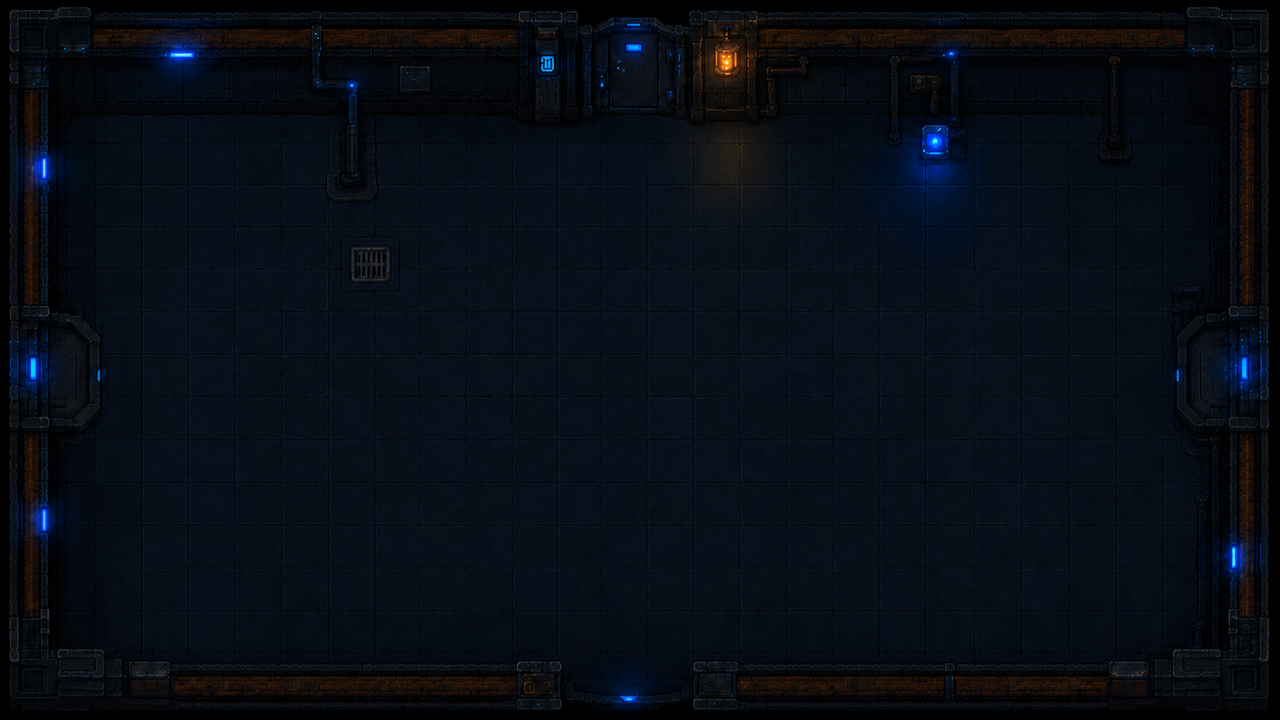
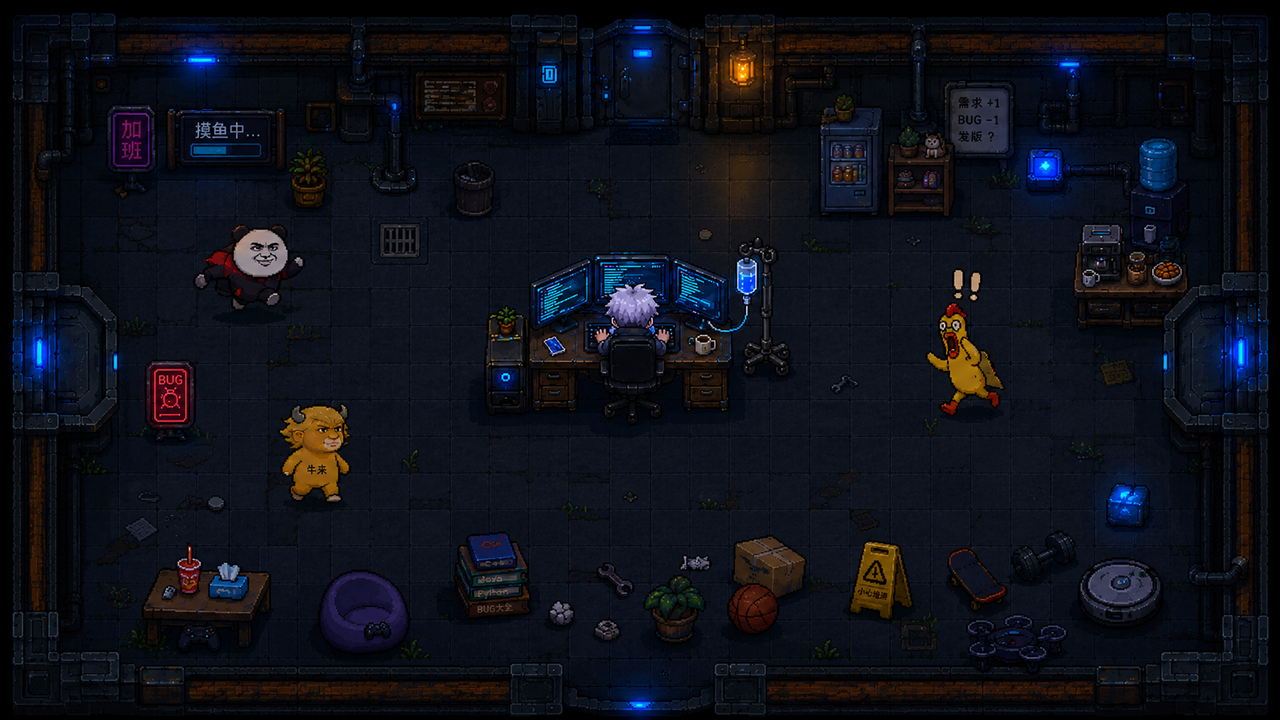
feat: bake furnished home hall from layout reference
Hub floor is the full office scene. Furniture is no longer stamped on top. Station clicks sit on the shelf, BUG sign, whiteboard, and beanbag.

diff --git a/AGENTS.md b/AGENTS.md
@@ -30,7 +30,7 @@ v1 内容：
 
 ## 当前闭环
 
-- 入口是 `scenes/app_root.tscn`（家园 `HomeHub` + `HomeRoom`）。点「开始远征」开新局（档案上次英雄，缺省骑士）。继续远征用存档里的英雄。家园不摆选人石座、不摆传送门。家园地面/家具只从 `assets/generated/home/` 拼接，不引用战场地板。点兵器图鉴 / 敌人图鉴 / 战绩碑浏览 `user://meta.json`（未发现为 `???`）；宠物巢穴只提示未开放。烟测仍直接加载 `main.tscn`，默认骑士局。
+- 入口是 `scenes/app_root.tscn`（家园 `HomeHub` + `HomeRoom`）。点「开始远征」开新局（档案上次英雄，缺省骑士）。继续远征用存档里的英雄。家园不摆选人石座、不摆传送门。大厅画面用 `assets/generated/home/layout-ref.png` 烘焙成 `floor-room.png`，不再另贴家具。点书架 / BUG 灯牌 / 白板 / 懒人沙发浏览图鉴或提示宠物未开放。烟测仍直接加载 `main.tscn`，默认骑士局。
 - `WaveDirector`：`PREP` 50s → `COMBAT` → 配额清完且场上无活怪（1.0s 防抖）→ `scrap += 50`，并在核心一侧 `HOME_REWARD_SPOTS` 刷 3 个传送带奖励（金币 / 药剂 / 武器）→ 再准备。地上奖励不走近吸拾：点选或「拾取」收一件，「丢弃」或 20s 超时进仓库。失败条件：核心 0 **或** 英雄第五次倒地（共复活 4 次）。失败发 `run_finished`，AppRoot 写 `user://meta.json` 后回家园，不 `reload_current_scene()`。上房间、战场、下房间是**三间地牢房**：北 **上房间**机械师+商人，中间 **COMBAT_ROOM** 核心+传送带，南 **下房间**召唤师+军官+导师。上/下房间贴着战场南北墙，中间没有小过道；门口是金护栏开口（准备期可走，翼板挡住）。准备期 `SHOP_SHELVES` 为台座+浮空图标，点台座可买。刷怪 `4 + wave * 2`（潮汐波 ×1.55）；间隔 `max(0.40, 0.90 - wave * 0.04)`。
 - 开局 300 金币、核心 10、英雄剑。骑士 Lv1：120 血 / 护甲 2 / 移速 165；刺客 Lv1：105 血 / 护甲 1 / 移速 175。冲刺/影分身已解锁。击杀给局内 XP（漏怪与开发者清怪不给）。升级暂停三选一天赋。导师货架：锻造、技能。机械师：机械修复。召唤师：随机金币/回血/金矿/炸伤；波≥3 可买半价。不再出旧导师生命/能量/护盾循环。倒地后 4 秒以 40 血在核心旁复活，共 4 次；第五次倒地结束本局。HUD「停」或 Esc / P 暂停（天赋选卡期间 Esc 不能关掉三选一）。
 - 双武器槽（元气骑士）：右下攻击键左侧一个切换圆钮。点钮或 `Q` 在已填武器槽 0、已填武器槽 1、以及非空炮台手之间循环。新枪填空槽，两槽都满则替换当前槽。炮台手只用于放置，攻击仍用上次选中的武器。骑士 `skill_level` 0/1/2 开火 1/2/3 发当前武器。

diff --git a/CLAUDE.md b/CLAUDE.md
@@ -30,7 +30,7 @@ v1 内容：
 
 ## 当前闭环
 
-- 入口是 `scenes/app_root.tscn`（家园 `HomeHub` + `HomeRoom`）。点「开始远征」开新局（档案上次英雄，缺省骑士）。继续远征用存档里的英雄。家园不摆选人石座、不摆传送门。家园地面/家具只从 `assets/generated/home/` 拼接，不引用战场地板。点兵器图鉴 / 敌人图鉴 / 战绩碑浏览 `user://meta.json`（未发现为 `???`）；宠物巢穴只提示未开放。烟测仍直接加载 `main.tscn`，默认骑士局。
+- 入口是 `scenes/app_root.tscn`（家园 `HomeHub` + `HomeRoom`）。点「开始远征」开新局（档案上次英雄，缺省骑士）。继续远征用存档里的英雄。家园不摆选人石座、不摆传送门。大厅画面用 `assets/generated/home/layout-ref.png` 烘焙成 `floor-room.png`，不再另贴家具。点书架 / BUG 灯牌 / 白板 / 懒人沙发浏览图鉴或提示宠物未开放。烟测仍直接加载 `main.tscn`，默认骑士局。
 - `WaveDirector`：`PREP` 50s → `COMBAT` → 配额清完且场上无活怪（1.0s 防抖）→ `scrap += 50`，并在核心一侧 `HOME_REWARD_SPOTS` 刷 3 个传送带奖励（金币 / 药剂 / 武器）→ 再准备。地上奖励不走近吸拾：点选或「拾取」收一件，「丢弃」或 20s 超时进仓库。失败条件：核心 0 **或** 英雄第五次倒地（共复活 4 次）。失败发 `run_finished`，AppRoot 写 `user://meta.json` 后回家园，不 `reload_current_scene()`。上房间、战场、下房间是**三间地牢房**：北 **上房间**机械师+商人，中间 **COMBAT_ROOM** 核心+传送带，南 **下房间**召唤师+军官+导师。上/下房间贴着战场南北墙，中间没有小过道；门口是金护栏开口（准备期可走，翼板挡住）。准备期 `SHOP_SHELVES` 为台座+浮空图标，点台座可买。刷怪 `4 + wave * 2`（潮汐波 ×1.55）；间隔 `max(0.40, 0.90 - wave * 0.04)`。
 - 开局 300 金币、核心 10、英雄剑。骑士 Lv1：120 血 / 护甲 2 / 移速 165；刺客 Lv1：105 血 / 护甲 1 / 移速 175。冲刺/影分身已解锁。击杀给局内 XP（漏怪与开发者清怪不给）。升级暂停三选一天赋。导师货架：锻造、技能。机械师：机械修复。召唤师：随机金币/回血/金矿/炸伤；波≥3 可买半价。不再出旧导师生命/能量/护盾循环。倒地后 4 秒以 40 血在核心旁复活，共 4 次；第五次倒地结束本局。HUD「停」或 Esc / P 暂停（天赋选卡期间 Esc 不能关掉三选一）。
 - 双武器槽（元气骑士）：右下攻击键左侧一个切换圆钮。点钮或 `Q` 在已填武器槽 0、已填武器槽 1、以及非空炮台手之间循环。新枪填空槽，两槽都满则替换当前槽。炮台手只用于放置，攻击仍用上次选中的武器。骑士 `skill_level` 0/1/2 开火 1/2/3 发当前武器。
